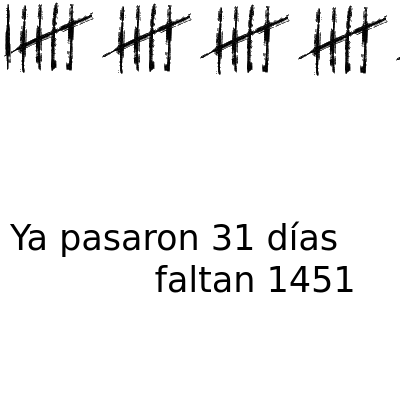
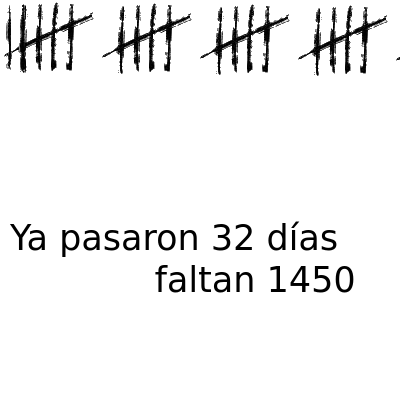
deploy: 28882f26f23b9f53dac6c4991168e610486d0e44

Changed region(s): [[0.0, 0.0, 0.09, 0.18], [0.84, 0.66, 0.9, 0.75], [0.57, 0.54, 0.63, 0.63]]

diff --git a/index.html b/index.html
@@ -3,19 +3,19 @@
   <head>
     <meta charset='utf-8'>
     <meta http-equiv='X-UA-Compatible' content='IE=edge'>
-    <title>Ya pasaron 31 días y faltan 1451</title>
-    <meta name="description" content="Ya pasaron 31 días y faltan 1451">
-    <meta itemprop="name" content="Ya pasaron 31 días y faltan 1451">
-    <meta itemprop="description" content="Ya pasaron 31 días y faltan 1451">
+    <title>Ya pasaron 32 días y faltan 1450</title>
+    <meta name="description" content="Ya pasaron 32 días y faltan 1450">
+    <meta itemprop="name" content="Ya pasaron 32 días y faltan 1450">
+    <meta itemprop="description" content="Ya pasaron 32 días y faltan 1450">
     <meta name="twitter:card" content="summary">
-    <meta name="twitter:title" content="Ya pasaron 31 días y faltan 1451">
-    <meta name="twitter:description" content="Ya pasaron 31 días y faltan 1451">
+    <meta name="twitter:title" content="Ya pasaron 32 días y faltan 1450">
+    <meta name="twitter:description" content="Ya pasaron 32 días y faltan 1450">
     <meta name="twitter:creator" content="@FloriusWasTaken">
     <meta name="twitter:image" content="https://pasaron.meme.ar/capture.png">
-    <meta property="og:title" content="Ya pasaron 31 días y faltan 1451">
-    <meta property="og:description" content="Ya pasaron 31 días y faltan 1451">
+    <meta property="og:title" content="Ya pasaron 32 días y faltan 1450">
+    <meta property="og:description" content="Ya pasaron 32 días y faltan 1450">
     <meta property="og:url" content="https://pasaron.meme.ar">
-    <meta property="og:site_name" content="Ya pasaron 31 días y faltan 1451">
+    <meta property="og:site_name" content="Ya pasaron 32 días y faltan 1450">
     <meta property="og:type" content="website">
     <meta property="og:image" content="https://pasaron.meme.ar/capture.png">
     <meta name="theme-color" content="#dc143c">
@@ -69,18 +69,18 @@
         padding: 0;
       }
     </style>
-    <title>Ya pasaron 31 días y faltan 1451</title>
+    <title>Ya pasaron 32 días y faltan 1450</title>
   </head>
   <body>
     <div id="main">
       <img src="img/5.png"/><img src="img/5.png"/><img src="img/5.png"/><img src="img/5.png"/><img src="img/5.png"/><img src="img/5.png"/>
       
-        <img src="img/1.png"/>
+        <img src="img/2.png"/>
       
     </div>
     <footer id="footer">
       <marquee id="marquee" class="is-vertical-align">
-        Ya pasaron 31 días y faltan 1451
+        Ya pasaron 32 días y faltan 1450
       </marquee>
       <ul>
         <li>
